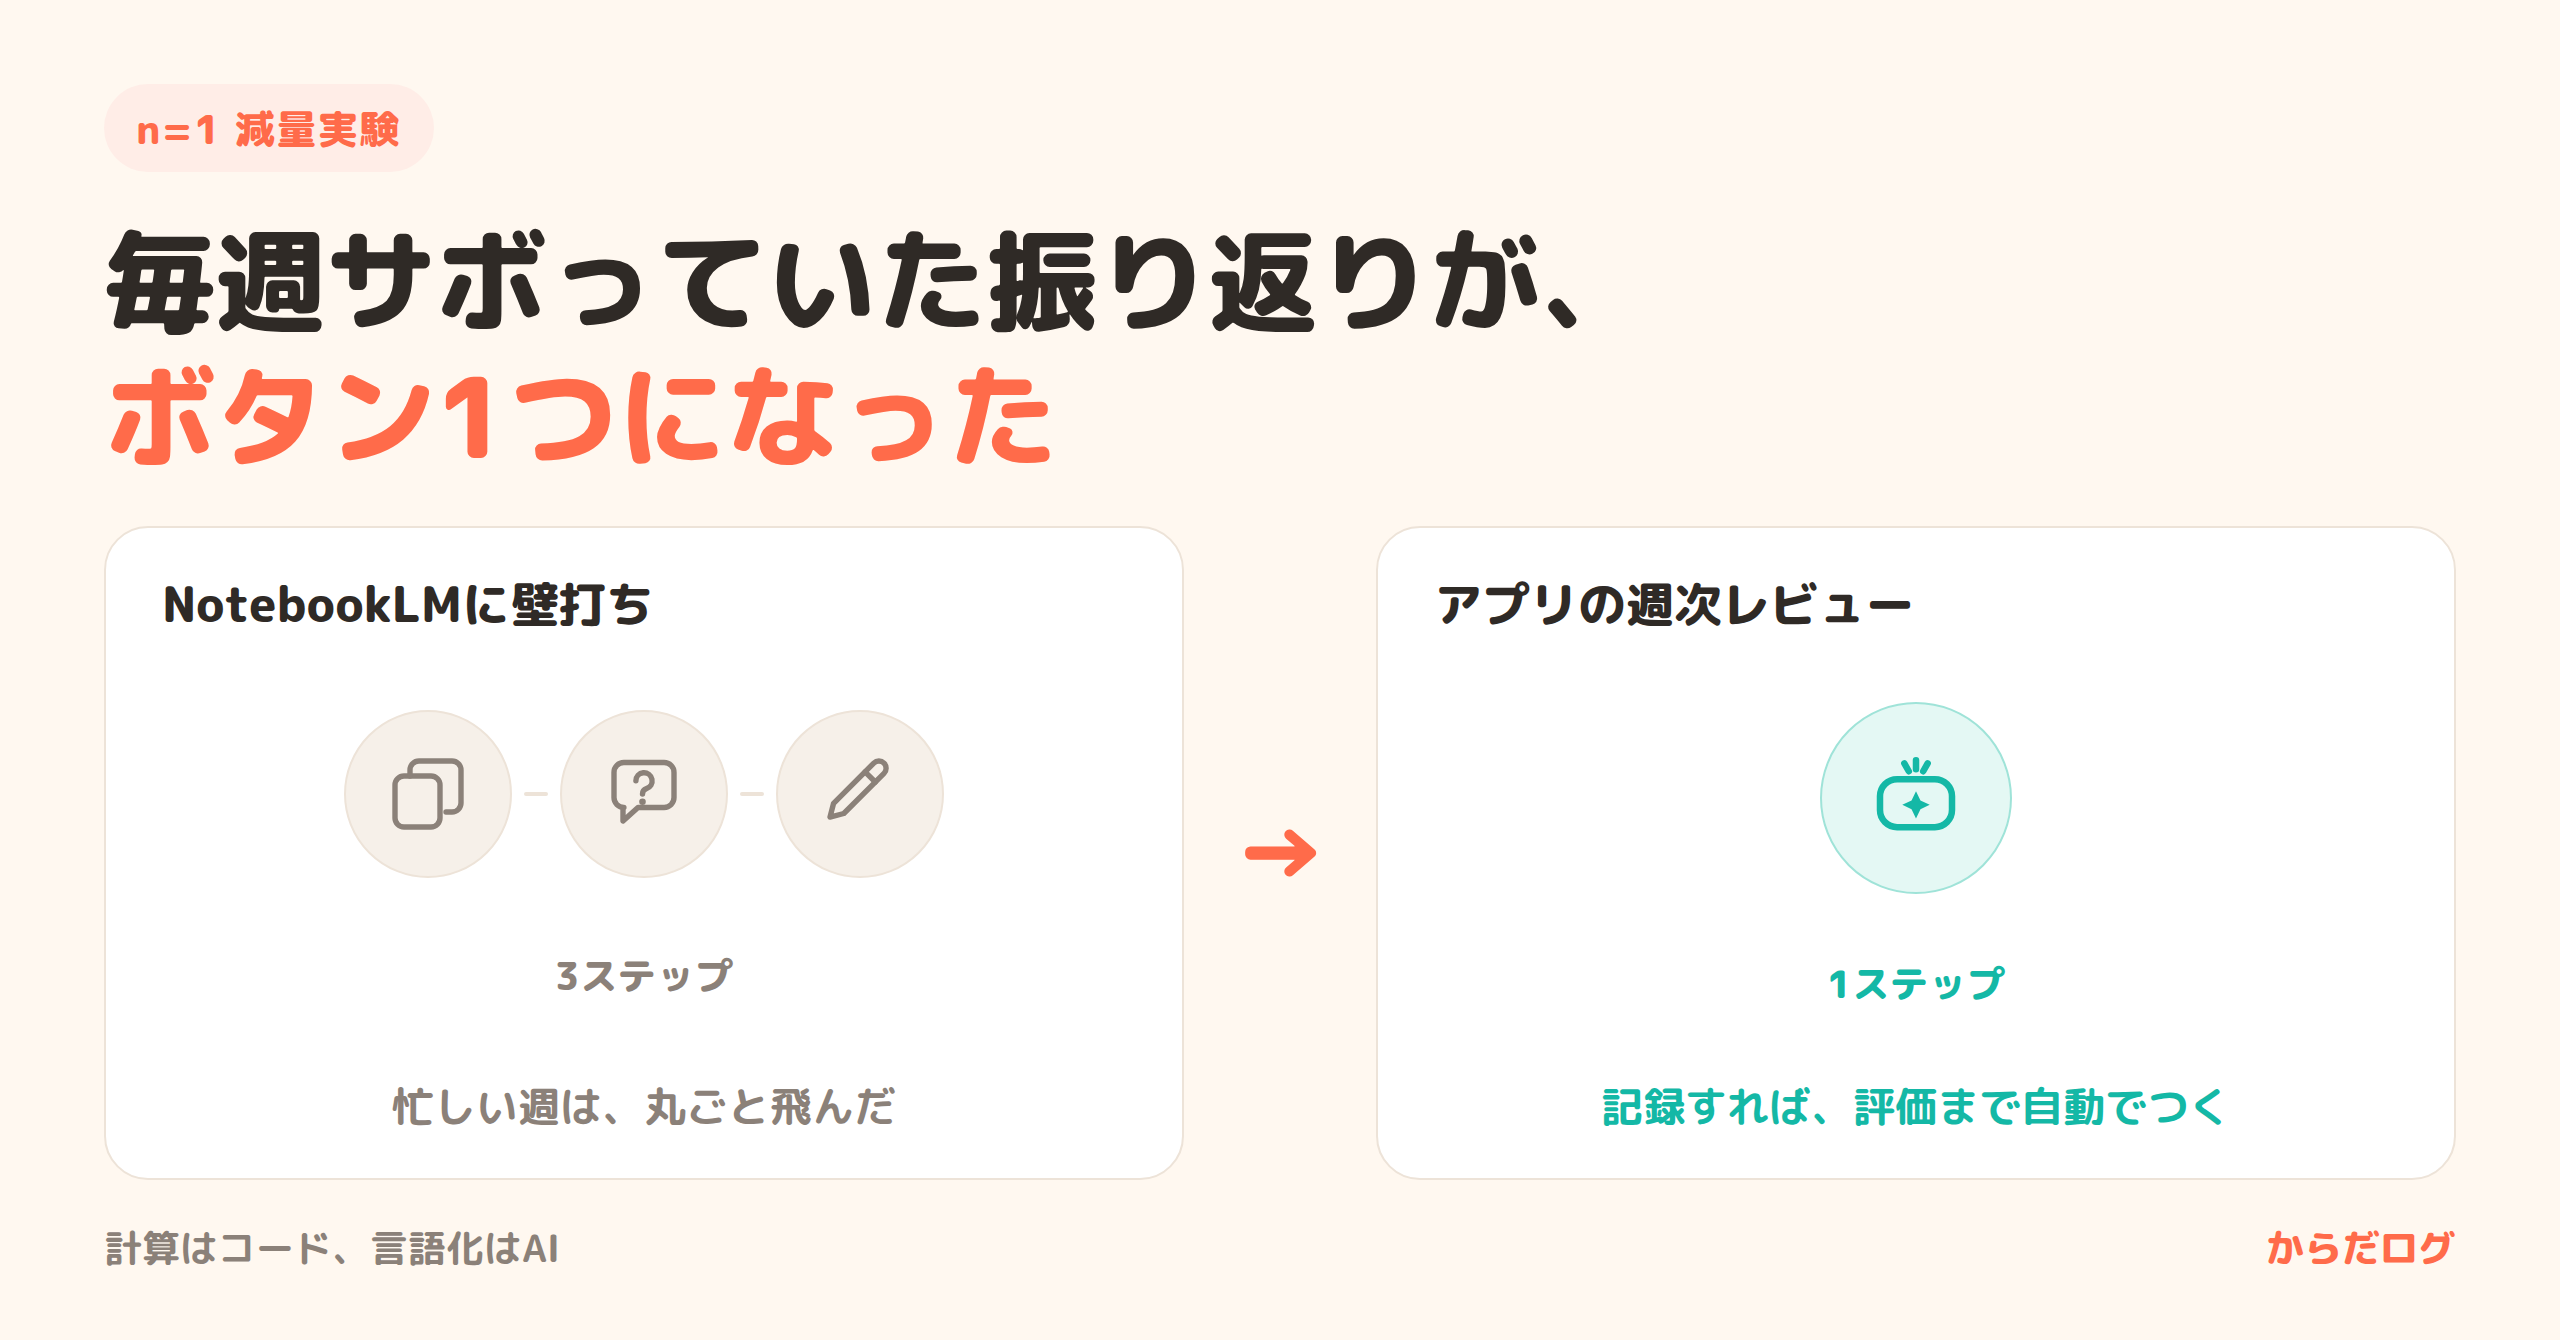
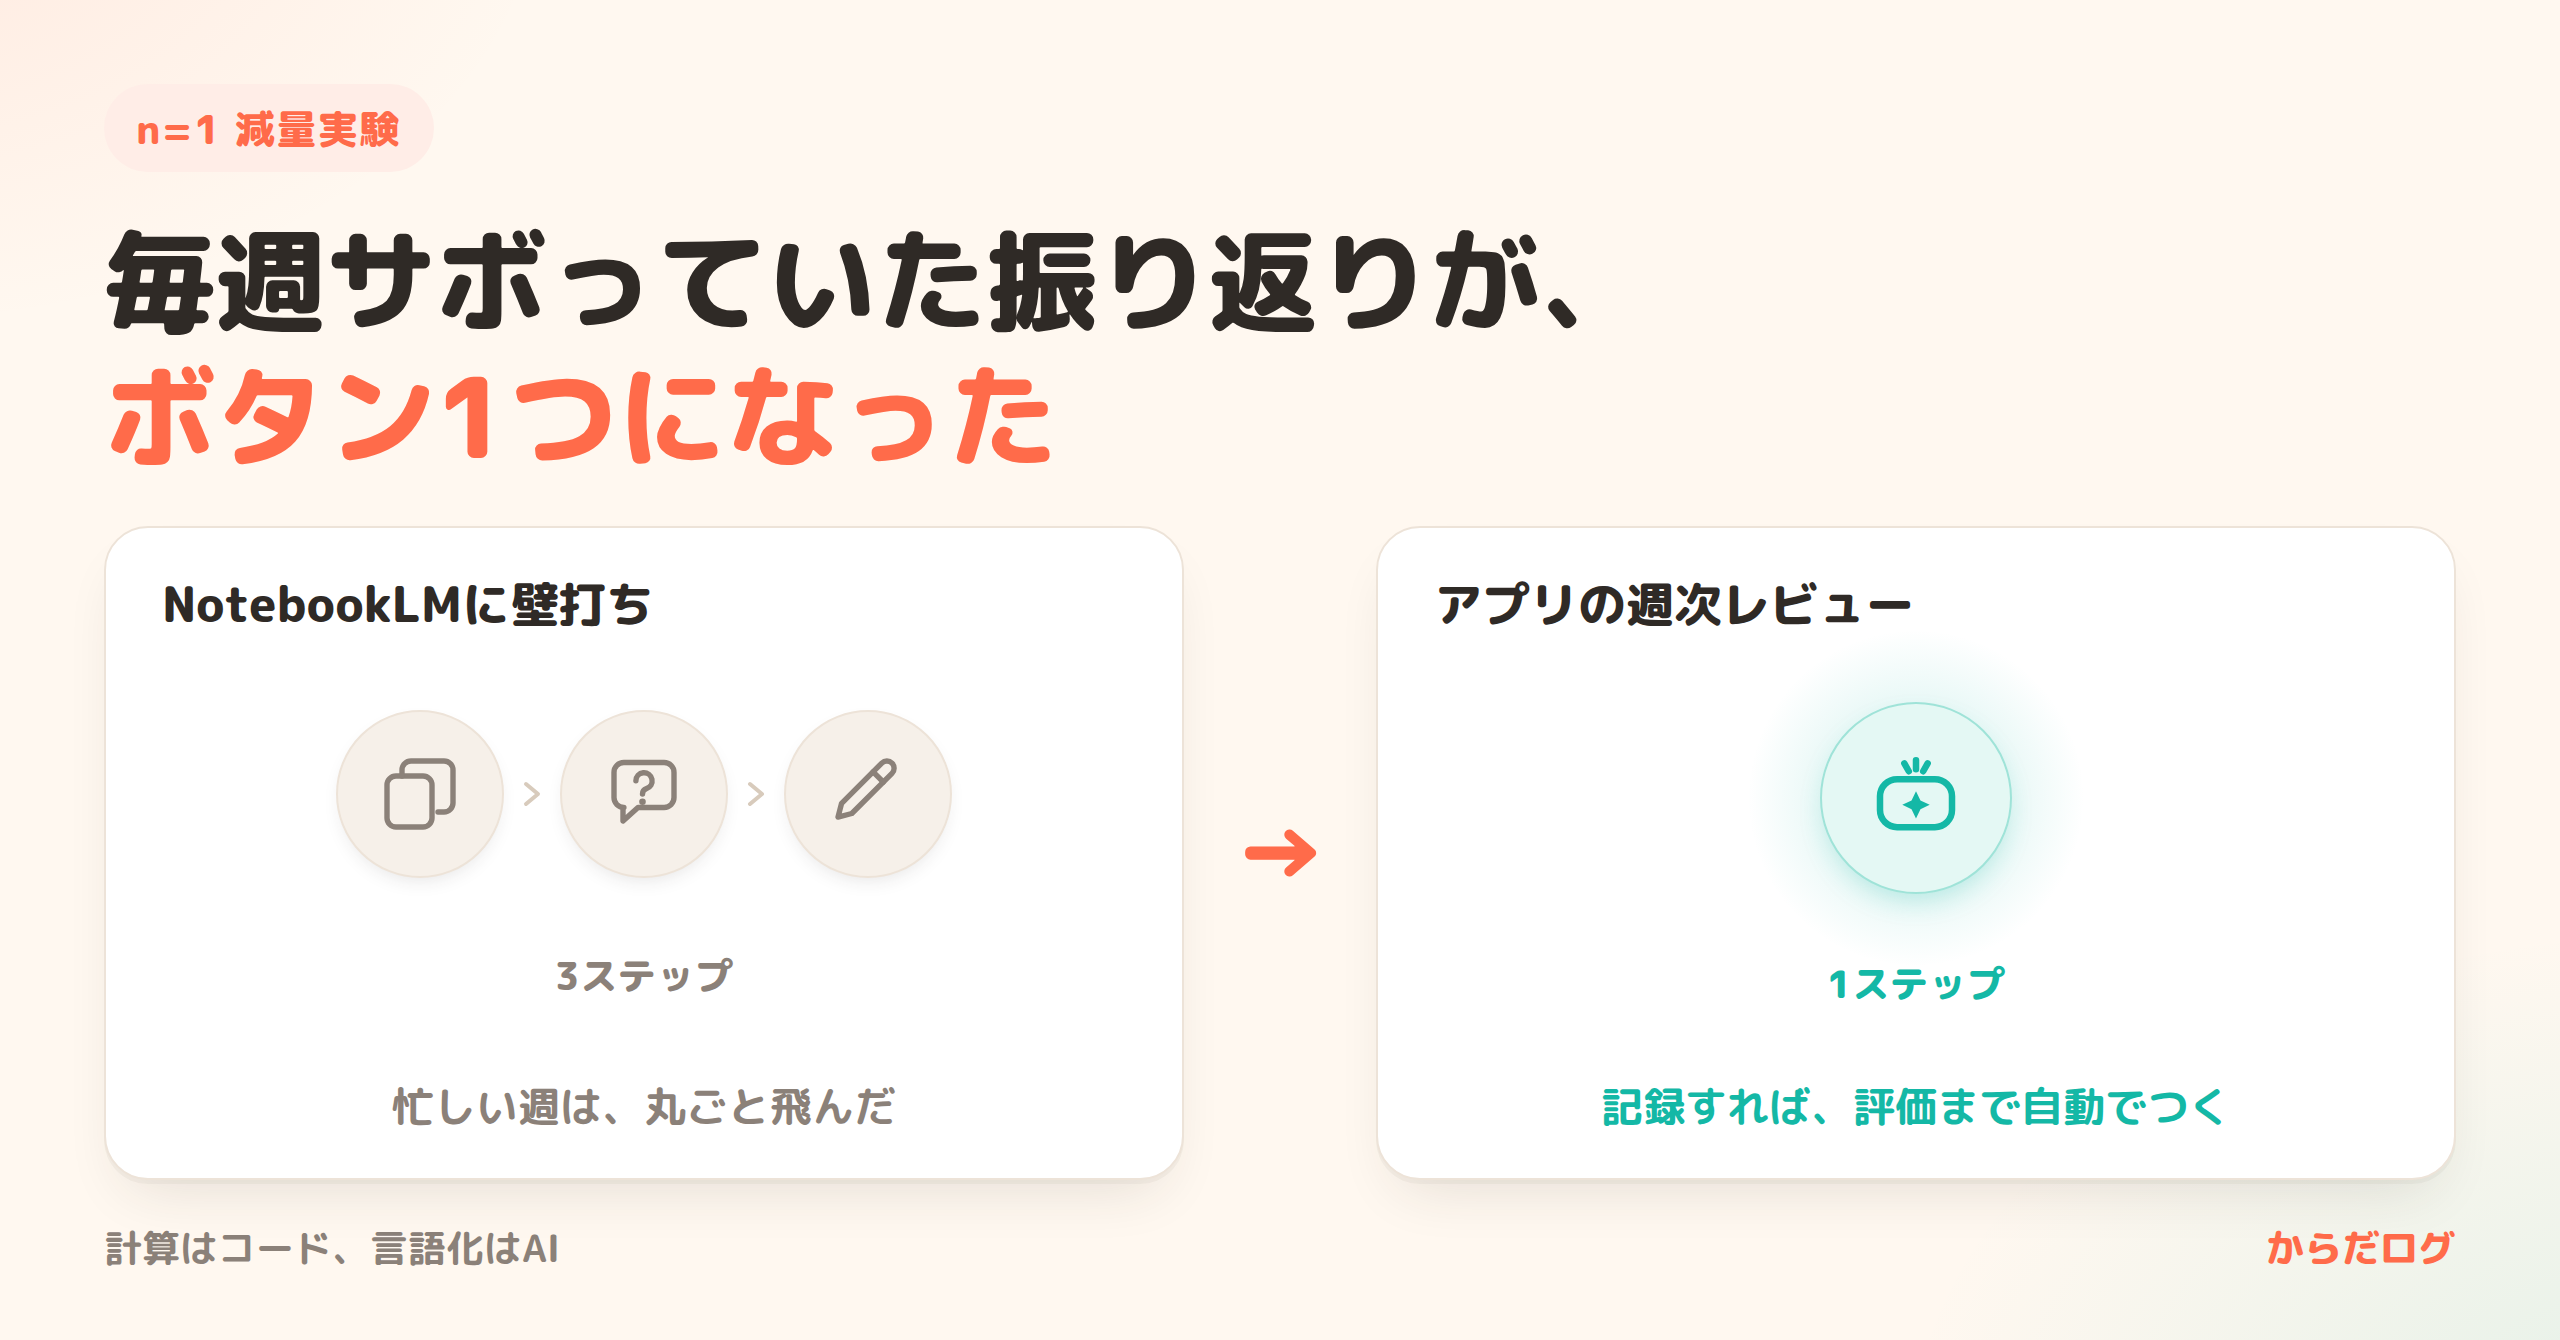
note目次案#3のサムネイルに奥行きと動きを足す
輪郭線のみのフラットなアイコンが白カードに浮いているだけで、テキストは
足していないのに「寂しい」印象が残っていた(本人指摘)。テキストを足す
のではなく装飾で解決した:

- 各パネルにドロップシャドウを付けて紙が浮いているような奥行きを出す
- beforeの区切り線を平らな線から矢印(›)に変え、手順が進む動きを出す
- afterのボタンバッジの背後にティールの光彩を置き、答えに視線を集める
- 背景の左上・右下にプライマリ/ティールの薄いにじみを足し、
  真っ白な余白を消す

README にも「サムネイルが寂しく見えるときは、テキストではなく影・光彩・
背景のにじみ・矢印などの装飾で奥行きと視線誘導を作る」という対処を残した。

Claude-Session: https://claude.ai/code/session_01WBqd7A7RvRStXMQ76HUn4E

diff --git a/articles/README.md b/articles/README.md
@@ -178,4 +178,4 @@ Zennの技術記事は、バズ(はてブ・トレンド)の一発より、**具
 - 2026-08-05: note06のサムネイル(`note06_サムネ.png`、1280×670・2倍解像度)を作成。「その数字が正しければ、77日で何kg減るはずだったか」の4行比較(Garmin 9.0kg / 計算式 3.7kg / 逆算 2.5kg / 実際 2.49kg)で、棒の長さをkgに比例させ、実際の体重変化だけをティールで反転表示した — 逆算値の棒と実際の棒がぴったり重なることが画像だけで伝わる構成。既定フォーマットどおりM PLUS Rounded 1cのサブセットwoff2をbase64埋め込みし、Playwrightで書き出した(`document.fonts.size` が3であることを確認済み)。Xの署名アイコンはnoteサムネには入れない方針どおり省いた。**この環境ではPlaywrightのバンドル版ブラウザのバージョンが合わないため、`chromium.launch({ executablePath: '/opt/pw-browsers/chromium' })` で既設のChromiumを指定する必要がある**(`npx playwright install` は実行しない)
 - 2026-08-05: **note目次案#3・#4の公開スケジュールを決定**(上記「公開スケジュール」節)。ストック記事は木曜・週次レポートは月曜に固定し、#3(AIコーチ移行)は既定の8/6(木)、#4(実測TDEE)は8/20(木)とした。#4を8/13にしなかったのは、8月のストック記事が3本になり「月1〜2本を上限」の運用ルールを超えるため。以降の需要検証は9/3・9/17、ゲート判定は10/1頃。あわせて、実測TDEE記事のファイル番号が PR #157 の `note05_AIコーチ移行_下書き.md`(2026-08-03作成)と衝突していたため、先着のPR #157側を維持して `note06_実測TDEE_下書き.md`・`note06_サムネ.png` に繰り下げた(目次案上の位置づけ note#4 は変更なし)。**8/6が成立するかは、PR #157のマージ・サムネイル作成・タイトル確定が間に合うか次第**
 - 2026-08-05: **需要検証2本目・3本目のネタを決定し、目次案#5(クロス分析)を検証の枠から外した**(上記「需要検証2本目・3本目のネタ」)。#5は睡眠×食事・飲酒×食事の話で読み物としては成立するが、課金候補(増減量サイクル層)に対して1本目のような「信じている数字が違う」型の切迫感が無く、検証記事としては弱いと判断した(目次案には時期未定で残す)。代わりに、実データで裏の取れた2本を充てる: 2本目「停滞期の正体」(停滞した2週間は歩数が過去最多の18,064歩で、摂取が1日121kcal増えていた。代謝適応でも運動不足でもなかった)、3本目「週1判断の危うさ」(週次逆算TDEEが1,572〜3,447・標準偏差530で振れる中、毎週の数字で食事を調整することの意味)。3本が同じ結論に見えないよう、読者が持ち帰る「次にやること」をずらす方針も併記した
-- 2026-08-05: **note目次案#3(AIコーチ移行)のサムネイルを作成**(`note05_サムネ.png`、1280×670・2倍解像度)。記事の核が「3ステップのコピペ作業 → ボタン1つ」なので、before(NotebookLMに壁打ち)/after(アプリの週次レビュー)の左右対比にした。初稿は手順3行・返ってくるもののチップ・免責の注記まで盛り込み、文字が多すぎて一覧表示で読めないと判断して「3ステップ→1ステップ」の数字だけに削ぎ落としたが、続けて**手順の中身を数字ではなくアイコンの絵で見せる案に差し替えた**(2026-08-05、本人指摘)。before側はコピー・チャット(質問)・鉛筆(メモ)の3アイコンを矢印代わりの短い区切り線で横に並べ、after側はボタン+きらめき(AI)の1アイコンだけを大きく置く — 手数の差を数えるまでもなく、アイコンの個数だけで一目で伝わる構成にした。アイコンは `src/components/icons.tsx` の作画ルール(ストローク1.6〜1.9・丸みのあるlinecap/linejoin)に合わせて描いた。**サムネイルの情報量の目安**: 一覧では冒頭が小さく表示されるため、縮小しても読めるのは見出しと少数の要素だけと考え、テキストで盛り込みたくなったら先にアイコン・図解で表現できないか検討する。余白が空いたら情報を足すのではなく要素を大きくして埋める(先にテキストを足す方向で作ったところフッターが押し出されて黙って切れた)。**書き出しスクリプトに `document.body.scrollHeight` が670を超えていないか・フッターが画面内にあるかの検査を追加した**。**下書き本体(`note05_AIコーチ移行_下書き.md`)はPR #157のブランチにあるため、そちらのTODO「サムネイルを作成する」はPRマージ後にチェックを外すこと**
+- 2026-08-05: **note目次案#3(AIコーチ移行)のサムネイルを作成**(`note05_サムネ.png`、1280×670・2倍解像度)。記事の核が「3ステップのコピペ作業 → ボタン1つ」なので、before(NotebookLMに壁打ち)/after(アプリの週次レビュー)の左右対比にした。初稿は手順3行・返ってくるもののチップ・免責の注記まで盛り込み、文字が多すぎて一覧表示で読めないと判断して「3ステップ→1ステップ」の数字だけに削ぎ落としたが、続けて**手順の中身を数字ではなくアイコンの絵で見せる案に差し替えた**(2026-08-05、本人指摘)。before側はコピー・チャット(質問)・鉛筆(メモ)の3アイコンを矢印代わりの短い区切り線で横に並べ、after側はボタン+きらめき(AI)の1アイコンだけを大きく置く — 手数の差を数えるまでもなく、アイコンの個数だけで一目で伝わる構成にした。アイコンは `src/components/icons.tsx` の作画ルール(ストローク1.6〜1.9・丸みのあるlinecap/linejoin)に合わせて描いた。**サムネイルの情報量の目安**: 一覧では冒頭が小さく表示されるため、縮小しても読めるのは見出しと少数の要素だけと考え、テキストで盛り込みたくなったら先にアイコン・図解で表現できないか検討する。余白が空いたら情報を足すのではなく要素を大きくして埋める(先にテキストを足す方向で作ったところフッターが押し出されて黙って切れた)。**書き出しスクリプトに `document.body.scrollHeight` が670を超えていないか・フッターが画面内にあるかの検査を追加した**。**下書き本体(`note05_AIコーチ移行_下書き.md`)はPR #157のブランチにあるため、そちらのTODO「サムネイルを作成する」はPRマージ後にチェックを外すこと** その後、beforeの3アイコンをafter(96px)に近い84pxまで拡大し、**「良さそうだけどまだ寂しい」との指摘を受けてカードに奥行きと動きを足した**(2026-08-05)。輪郭線のみのフラットなアイコンが白カードに浮いているだけで、テキストは足していないのに空虚さが残っていたため: (1) 各パネルにドロップシャドウを付けて紙が浮いているような奥行きを出す、(2) beforeの区切り線を平らな線から矢印(›)に変えて手順が進んでいる動きを出す、(3) afterのボタンバッジの背後にティールの光彩(radial-gradient)を置き「これが答え」と視線を集める、(4) 背景の左上・右下の角にプライマリ/ティールの薄いにじみを足し、真っ白な余白を消す。**サムネイルが寂しく見えるときの対処**として、テキストを足すのではなく影・光彩・背景のにじみ・矢印などの装飾でパネルに奥行きと視線誘導を作る、という選択肢をREADMEに残す
